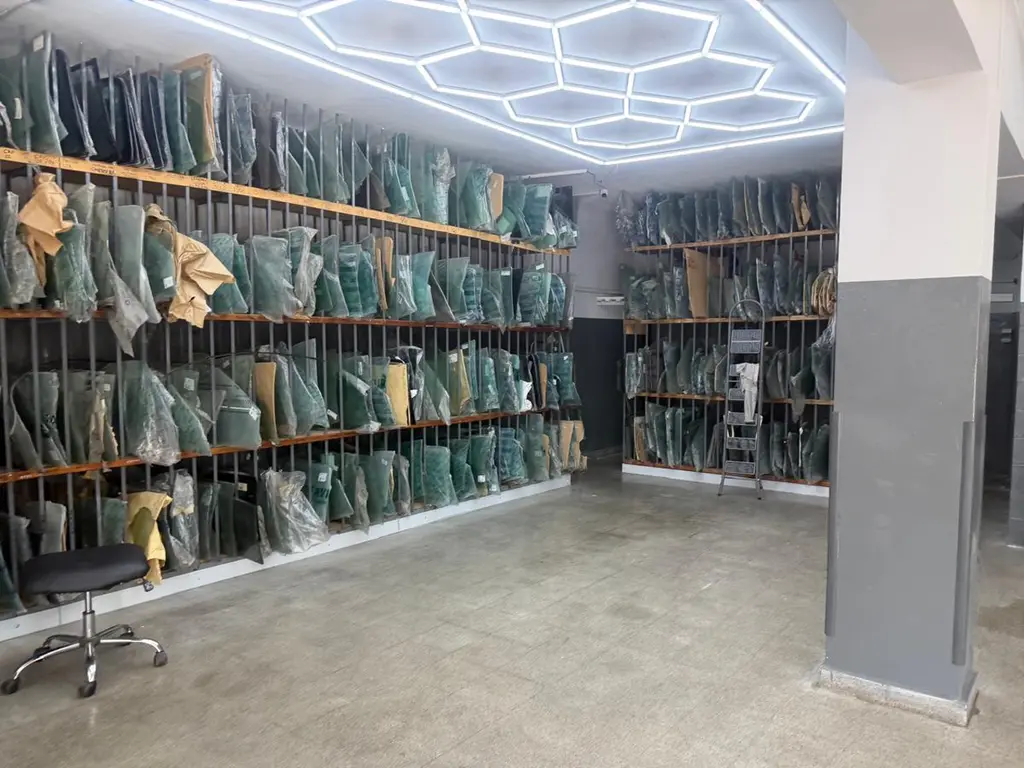
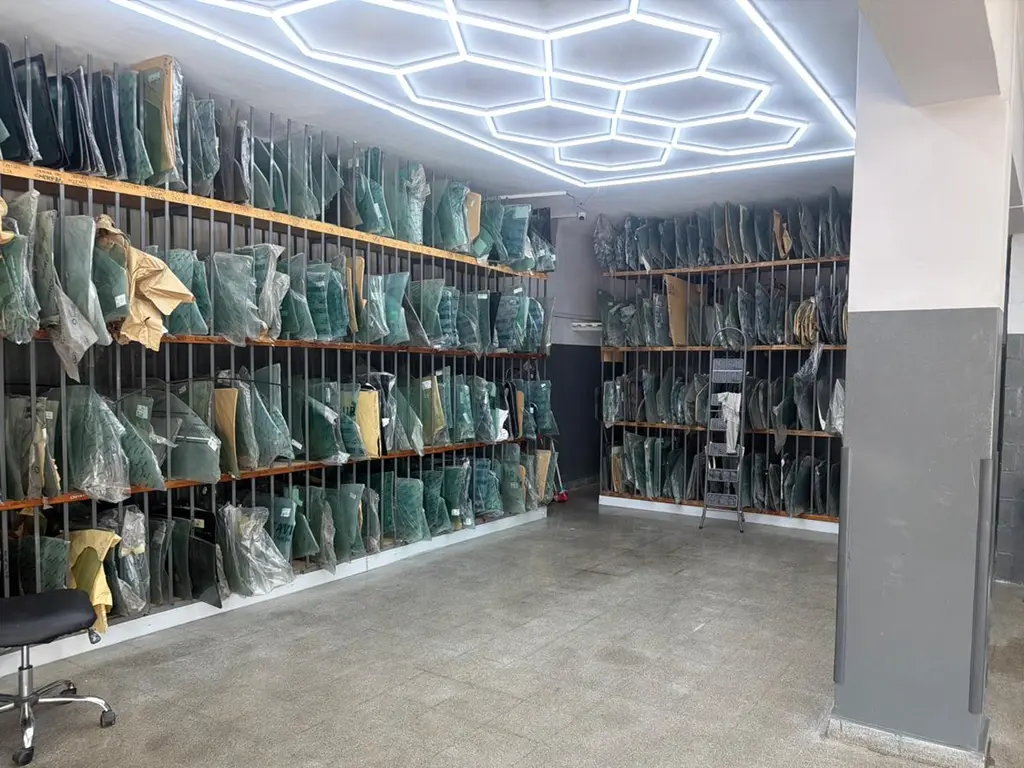
Recorrido del taller: un solo paneo de izquierda a derecha
- Ruta 46, 45, 48, 49, 50, 51, 53, 54, 55: sin volver atrás (antes pasaba dos veces por las
  mismas tomas); la foto 47, que no se alineaba con sus vecinas, queda afuera
- La foto 53 llena el hueco más grande del paneo, recortada para dejar fuera a la persona sentada
- El paneo ocupa más de la mitad del scroll; la calle y la entrada al portón son más cortas
- Textos del recorrido reubicados

diff --git a/src/PhotoTour.ts b/src/PhotoTour.ts
@@ -9,24 +9,22 @@ const INK = '#070908';
 
 const FRAMES = Array.from({ length: 12 }, (_, i) => `/taller/${i + 1}.webp`);
 
-// Ruta (en orden de las fotos): la calle, el portón, y adentro un barrido a la izquierda y la vuelta a la derecha.
+// Ruta: la calle, el portón y adentro UN solo paneo de izquierda a derecha por el salón (fotos 46, 45, 48… 55).
 // Tramo = de FRAMES[from] a FRAMES[to] mientras el scroll (0..1) está en `at`. Van uno detrás del otro, sin pausas;
 // la duración de cada uno es proporcional a cuánto se mueve la cámara, así la velocidad es pareja.
 // fit = [a, dx, dy] con dx y dy normalizados a W y H (x_B = a·x_A + d).
 const STEPS: { from: number; to: number; at: [number, number]; fit: [number, number, number] }[] = [
-  { from: 0, to: 1, at: [0.05, 0.132], fit: [1.2554, -0.0933, -0.2076] }, // 5 → 6
-  { from: 1, to: 2, at: [0.132, 0.186], fit: [1.1777, -0.1028, -0.0717] }, // 6 → 7
-  { from: 2, to: 3, at: [0.186, 0.405], fit: [2.5000, -0.8516, -0.8281] }, // 7 → 45
-  { from: 3, to: 4, at: [0.405, 0.443], fit: [1.0053, 0.3052, -0.0387] }, // 45 → 46
-  { from: 4, to: 5, at: [0.443, 0.544], fit: [1.2780, 0.3255, -0.1281] }, // 46 → 47
-  { from: 5, to: 4, at: [0.544, 0.638], fit: [0.7732, -0.2444, 0.1088] }, // 47 → 46
-  { from: 4, to: 3, at: [0.638, 0.679], fit: [0.9734, -0.2891, 0.0483] }, // 46 → 45
-  { from: 3, to: 6, at: [0.679, 0.735], fit: [1.1883, -0.0468, -0.1101] }, // 45 → 48
-  { from: 6, to: 7, at: [0.735, 0.772], fit: [1.0224, -0.0740, -0.0639] }, // 48 → 49
-  { from: 7, to: 8, at: [0.772, 0.809], fit: [1.0854, -0.0575, -0.0136] }, // 49 → 50
-  { from: 8, to: 9, at: [0.809, 0.846], fit: [1.0690, -0.0562, 0.0021] }, // 50 → 51
-  { from: 9, to: 10, at: [0.846, 0.893], fit: [1.0986, -0.1972, -0.0253] }, // 51 → 54
-  { from: 10, to: 11, at: [0.893, 0.93], fit: [1.0434, -0.0854, -0.0460] }, // 54 → 55
+  { from: 0, to: 1, at: [0.05, 0.139], fit: [1.2554, -0.0933, -0.2076] }, // 5 → 6
+  { from: 1, to: 2, at: [0.139, 0.198], fit: [1.1777, -0.1028, -0.0717] }, // 6 → 7
+  { from: 2, to: 3, at: [0.198, 0.366], fit: [2.5000, -0.8516, -0.8281] }, // 7 → 46
+  { from: 3, to: 4, at: [0.366, 0.466], fit: [0.9734, -0.2891, 0.0483] }, // 46 → 45
+  { from: 4, to: 5, at: [0.466, 0.6], fit: [1.1883, -0.0468, -0.1101] }, // 45 → 48
+  { from: 5, to: 6, at: [0.6, 0.641], fit: [1.0224, -0.0740, -0.0639] }, // 48 → 49
+  { from: 6, to: 7, at: [0.641, 0.705], fit: [1.0854, -0.0575, -0.0136] }, // 49 → 50
+  { from: 7, to: 8, at: [0.705, 0.759], fit: [1.0690, -0.0562, 0.0021] }, // 50 → 51
+  { from: 8, to: 9, at: [0.759, 0.86], fit: [1.1016, -0.1550, -0.0045] }, // 51 → 53
+  { from: 9, to: 10, at: [0.86, 0.878], fit: [0.9900, -0.0390, -0.0164] }, // 53 → 54
+  { from: 10, to: 11, at: [0.878, 0.93], fit: [1.0434, -0.0854, -0.0460] }, // 54 → 55
 ];
 
 const clamp = (v: number) => Math.min(1, Math.max(0, v));

diff --git a/src/App.tsx b/src/App.tsx
@@ -379,7 +379,7 @@ function Taller() {
   // los tiempos de las fotos están en PhotoTour.ts (STEPS); acá solo los textos
   const titleO = useTransform(p, [0, 0.04, 0.08], [1, 1, 0]);
   const cap1 = useTransform(p, [0.09, 0.14, 0.28, 0.34], [0, 1, 1, 0]);
-  const cap2 = useTransform(p, [0.56, 0.63, 0.88, 0.95], [0, 1, 1, 0]);
+  const cap2 = useTransform(p, [0.4, 0.46, 0.88, 0.95], [0, 1, 1, 0]);
   const sceneO = useTransform(p, [0.95, 1], [1, 0]);
 
   return (
